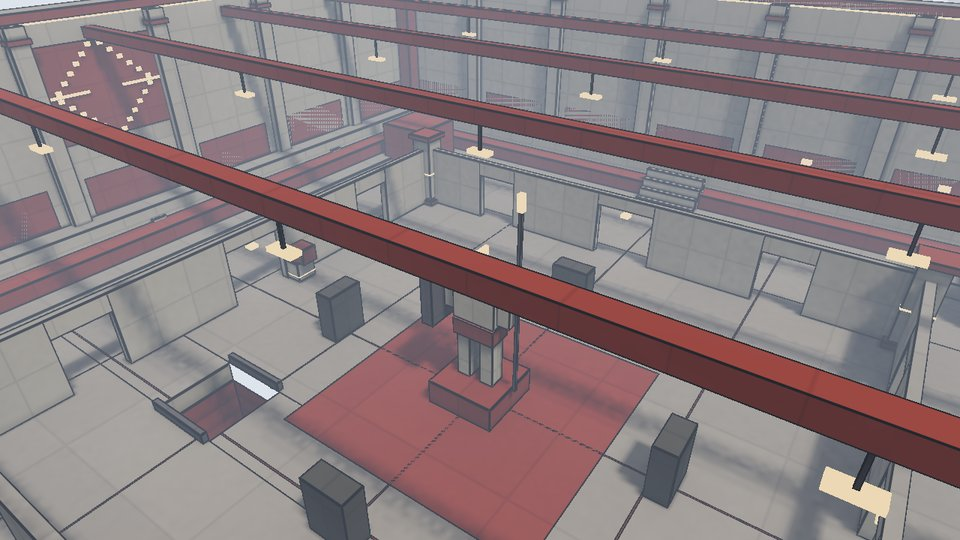
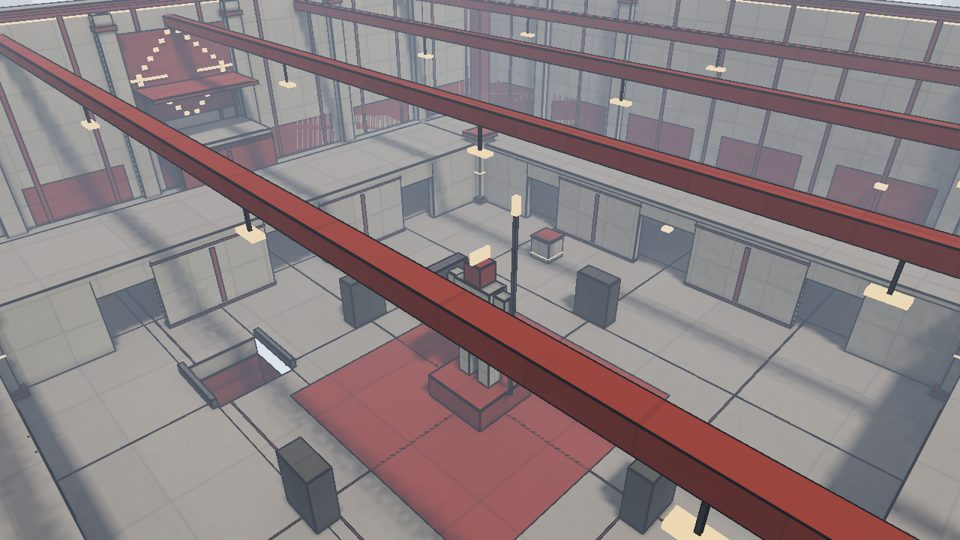
1.5.0: new maps Downtown (city, koth) and Orbital (space station, vs); Crucible rebuilt as Clockwork (inside a giant clock); one mode per map; harder Viaduct; stairs test; stricter grading
- every map built for one mode with a declared setting; docs/MAP_STRUCTURES.md explains why
  each layout suits its mode and why every structure is there
- viaduct: weaving beams with posts, 0.9 m pads, tunnel through a rock spur, solid overhang;
  scored on the dash/grapple player's path (12 jumps/100 m, 20% narrow, 4% grappled)
- quark_tests stairs: every flight walked, none may cut or hang over a path; fixed many broken
  flights (rounded 0.6 m steps, capped steps, stairs under horns/galleries/offices, buried aisle)
- ladders end flush at the top; new ladders and levels on most maps
- bots: nav keeps 0.5 m stair steps; ladder links reach the top floor
- mapreport: playable floor only, player-width leap arcs, tech-path race challenge, mode fit
  score, settings, stricter decor/layout/creativity targets; gate includes mode fit

Claude-Session: https://claude.ai/code/session_01YS3n1975kS3H84KDySSqw3

diff --git a/index.html b/index.html
@@ -109,23 +109,25 @@ footer { margin-top: 50px; padding-top: 14px; border-top: 2px dashed var(--line)
 <p class="cap">player models: standard, heavy, scout, robot, knight. same hitbox, purely for drip</p>
 
 <h2 id="maps">maps</h2>
-<p class="dim">15 of them, generated from a python script and then hand-tweaked.</p>
+<p class="dim">17 of them, generated from a python script. each one is built for one mode (the why is in <a href="https://github.com/floration/quark/blob/main/docs/MAP_STRUCTURES.md">the map notes</a>).</p>
 <div class="maps">
-  <figure><img src="img/temple.jpg" alt="temple" loading="lazy" width="960" height="540"><figcaption><b>temple</b> - ranked vanilla</figcaption></figure>
+  <figure><img src="img/temple.jpg" alt="temple" loading="lazy" width="960" height="540"><figcaption><b>temple</b> - ranked vanilla, climb the pagodas</figcaption></figure>
   <figure><img src="img/furnace.jpg" alt="furnace" loading="lazy" width="960" height="540"><figcaption><b>furnace</b> - ranked laser vampire</figcaption></figure>
   <figure><img src="img/gantry.jpg" alt="gantry" loading="lazy" width="960" height="540"><figcaption><b>gantry</b> - ranked instagib (my favourite)</figcaption></figure>
   <figure><img src="img/anvil.jpg" alt="anvil" loading="lazy" width="960" height="540"><figcaption><b>anvil</b> - all three ladders</figcaption></figure>
-  <figure><img src="img/crucible.jpg" alt="crucible" loading="lazy" width="960" height="540"><figcaption><b>crucible</b> - duel, don't fall in</figcaption></figure>
+  <figure><img src="img/clockwork.jpg" alt="clockwork" loading="lazy" width="960" height="540"><figcaption><b>clockwork</b> - duel inside a giant clock, mind the gears</figcaption></figure>
   <figure><img src="img/depot.jpg" alt="depot" loading="lazy" width="960" height="540"><figcaption><b>depot</b> - bomb</figcaption></figure>
-  <figure><img src="img/summit.jpg" alt="summit" loading="lazy" width="960" height="540"><figcaption><b>summit</b> - king of the hill</figcaption></figure>
+  <figure><img src="img/downtown.jpg" alt="downtown" loading="lazy" width="960" height="540"><figcaption><b>downtown</b> - king of the hill in a city plaza</figcaption></figure>
+  <figure><img src="img/summit.jpg" alt="summit" loading="lazy" width="960" height="540"><figcaption><b>summit</b> - king of the hill on a mountain</figcaption></figure>
   <figure><img src="img/railyard.jpg" alt="railyard" loading="lazy" width="960" height="540"><figcaption><b>railyard</b> - payload</figcaption></figure>
   <figure><img src="img/canal.jpg" alt="canal" loading="lazy" width="960" height="540"><figcaption><b>canal</b> - neutral payload</figcaption></figure>
   <figure><img src="img/harbor.jpg" alt="harbor" loading="lazy" width="960" height="540"><figcaption><b>harbor</b> - ffa</figcaption></figure>
-  <figure><img src="img/bastion.jpg" alt="bastion" loading="lazy" width="960" height="540"><figcaption><b>bastion</b> - every mode</figcaption></figure>
-  <figure><img src="img/foundry.jpg" alt="foundry" loading="lazy" width="960" height="540"><figcaption><b>foundry</b> - every mode</figcaption></figure>
-  <figure><img src="img/colosseum.jpg" alt="colosseum" loading="lazy" width="960" height="540"><figcaption><b>colosseum</b> - every mode</figcaption></figure>
-  <figure><img src="img/hamlet.jpg" alt="hamlet" loading="lazy" width="960" height="540"><figcaption><b>hamlet</b> - hide and seek / tag, climb the church</figcaption></figure>
-  <figure><img src="img/viaduct.jpg" alt="viaduct" loading="lazy" width="960" height="540"><figcaption><b>viaduct</b> - race, two loops, mind the gap</figcaption></figure>
+  <figure><img src="img/bastion.jpg" alt="bastion" loading="lazy" width="960" height="540"><figcaption><b>bastion</b> - team vs in a castle</figcaption></figure>
+  <figure><img src="img/orbital.jpg" alt="orbital" loading="lazy" width="960" height="540"><figcaption><b>orbital</b> - team vs on a space station, don't fall out the window</figcaption></figure>
+  <figure><img src="img/colosseum.jpg" alt="colosseum" loading="lazy" width="960" height="540"><figcaption><b>colosseum</b> - tourney</figcaption></figure>
+  <figure><img src="img/foundry.jpg" alt="foundry" loading="lazy" width="960" height="540"><figcaption><b>foundry</b> - tag in a factory</figcaption></figure>
+  <figure><img src="img/hamlet.jpg" alt="hamlet" loading="lazy" width="960" height="540"><figcaption><b>hamlet</b> - hide and seek, climb the church</figcaption></figure>
+  <figure><img src="img/viaduct.jpg" alt="viaduct" loading="lazy" width="960" height="540"><figcaption><b>viaduct</b> - race, two loops, every gap counts</figcaption></figure>
 </div>
 
 <h2 id="weapons">guns</h2>
